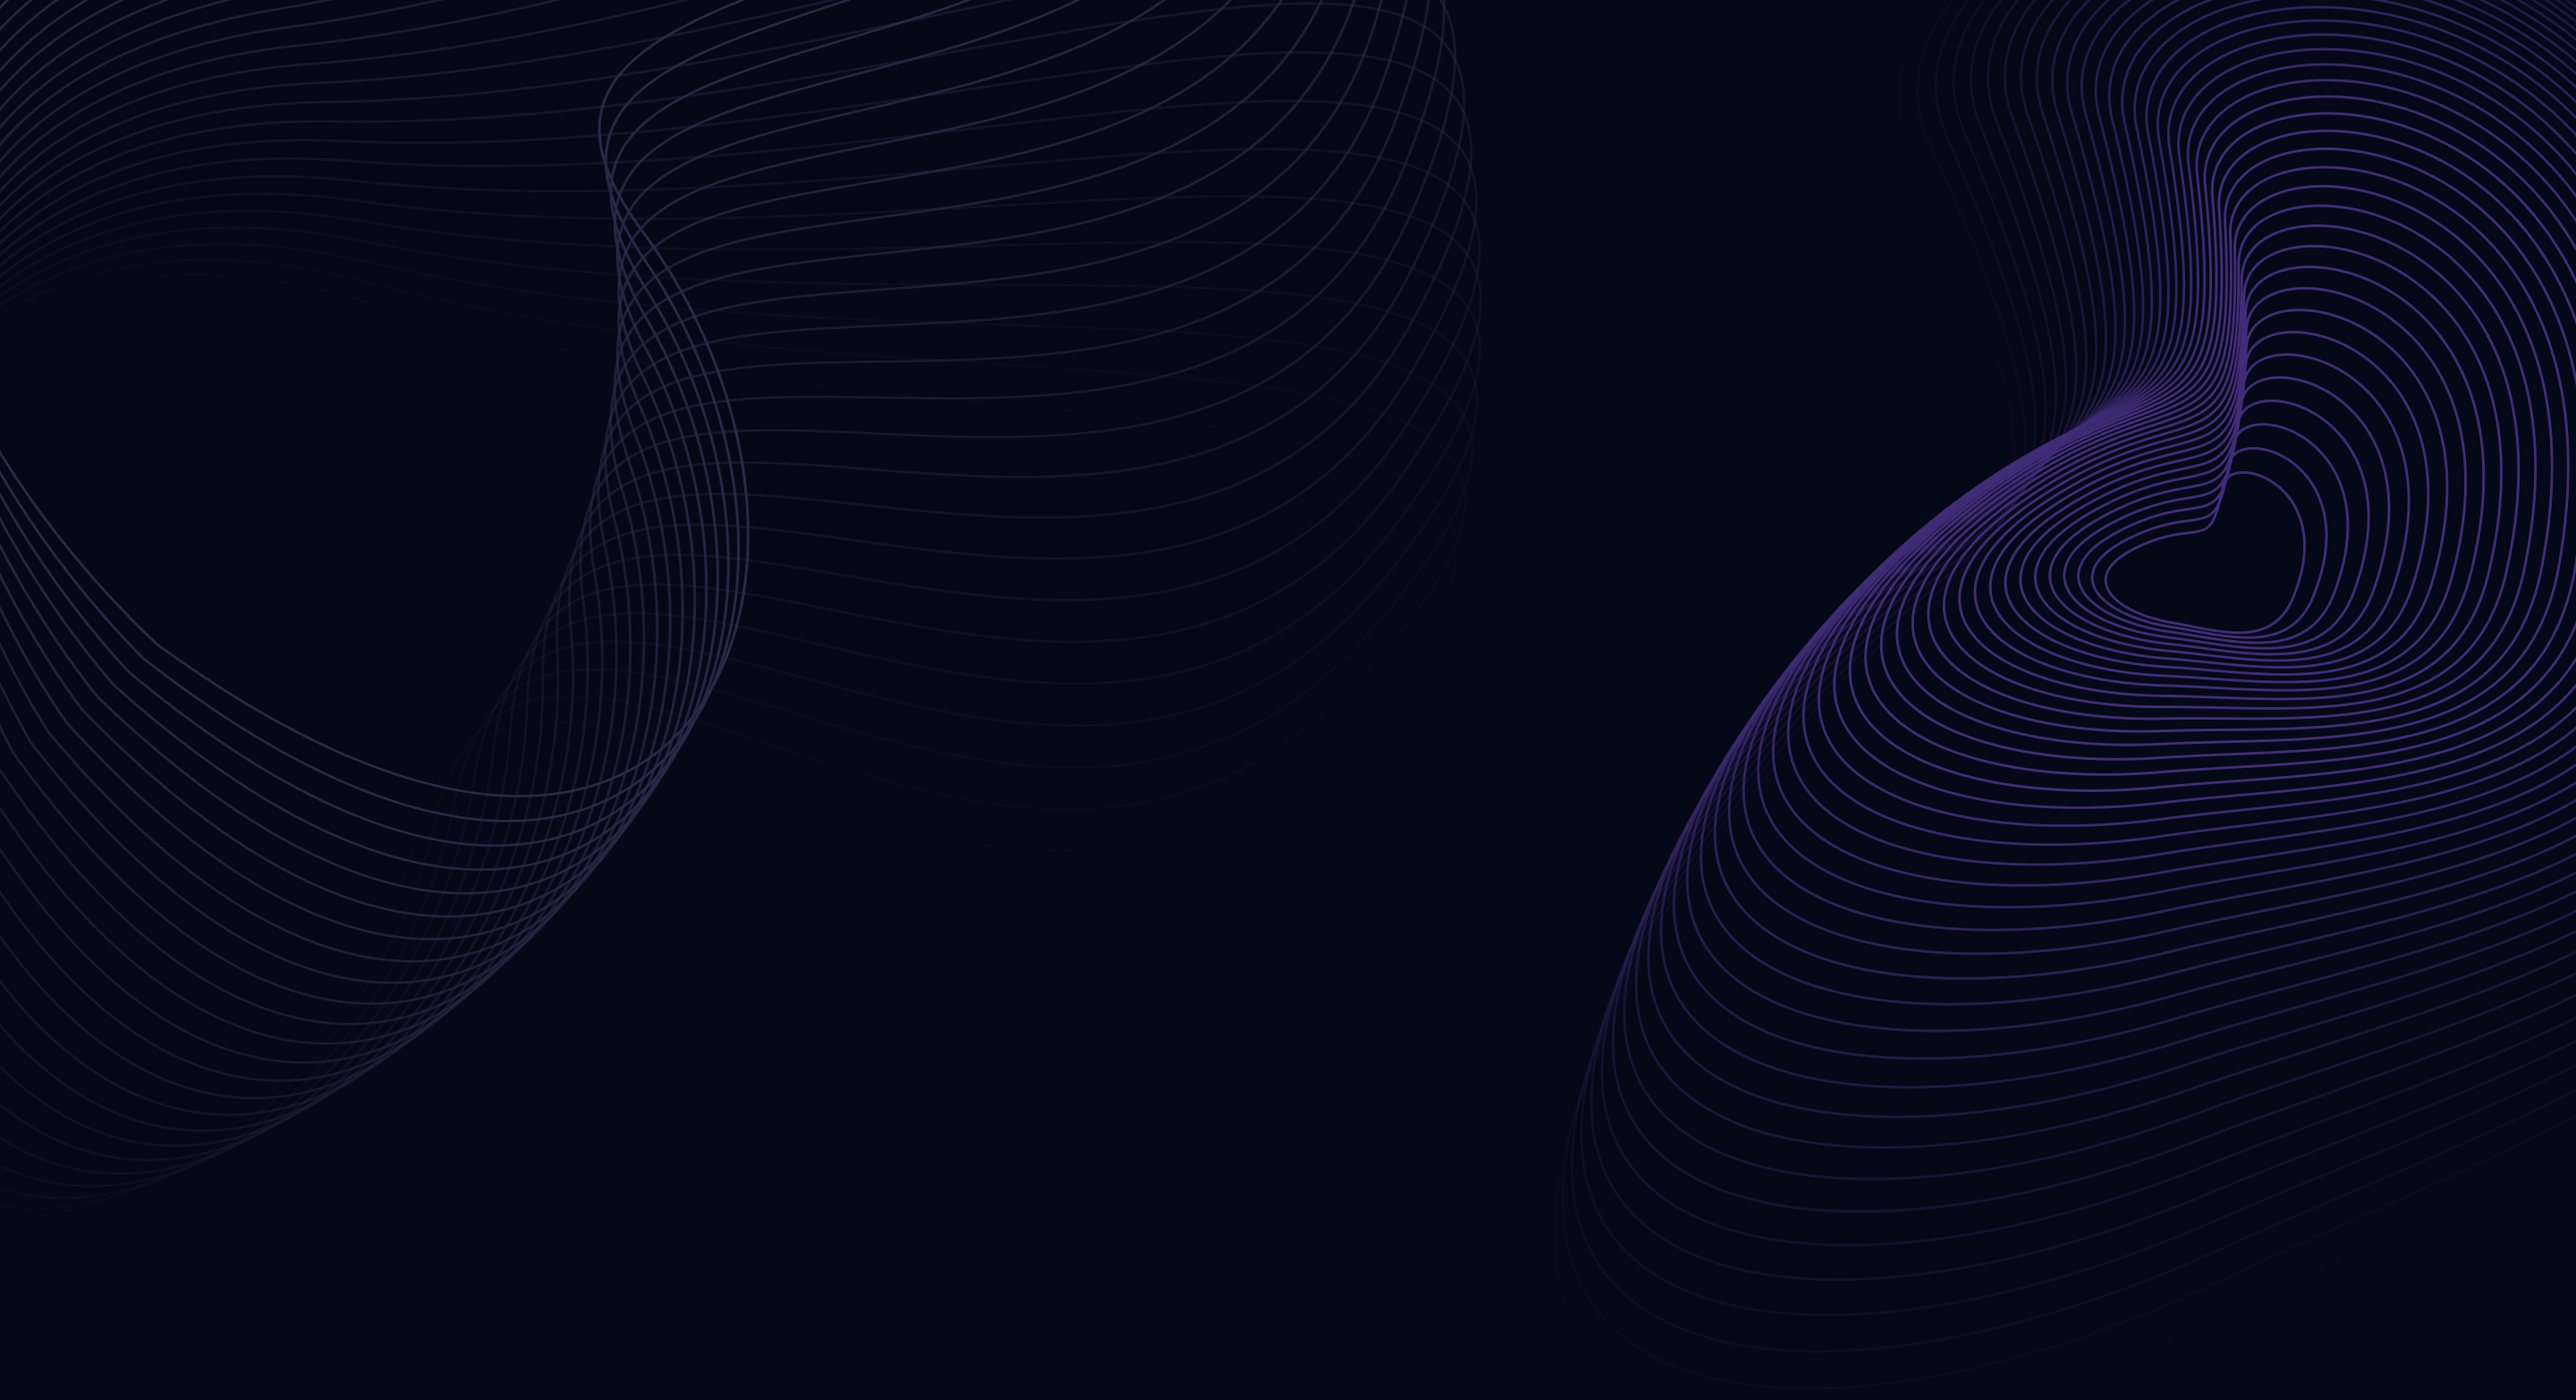
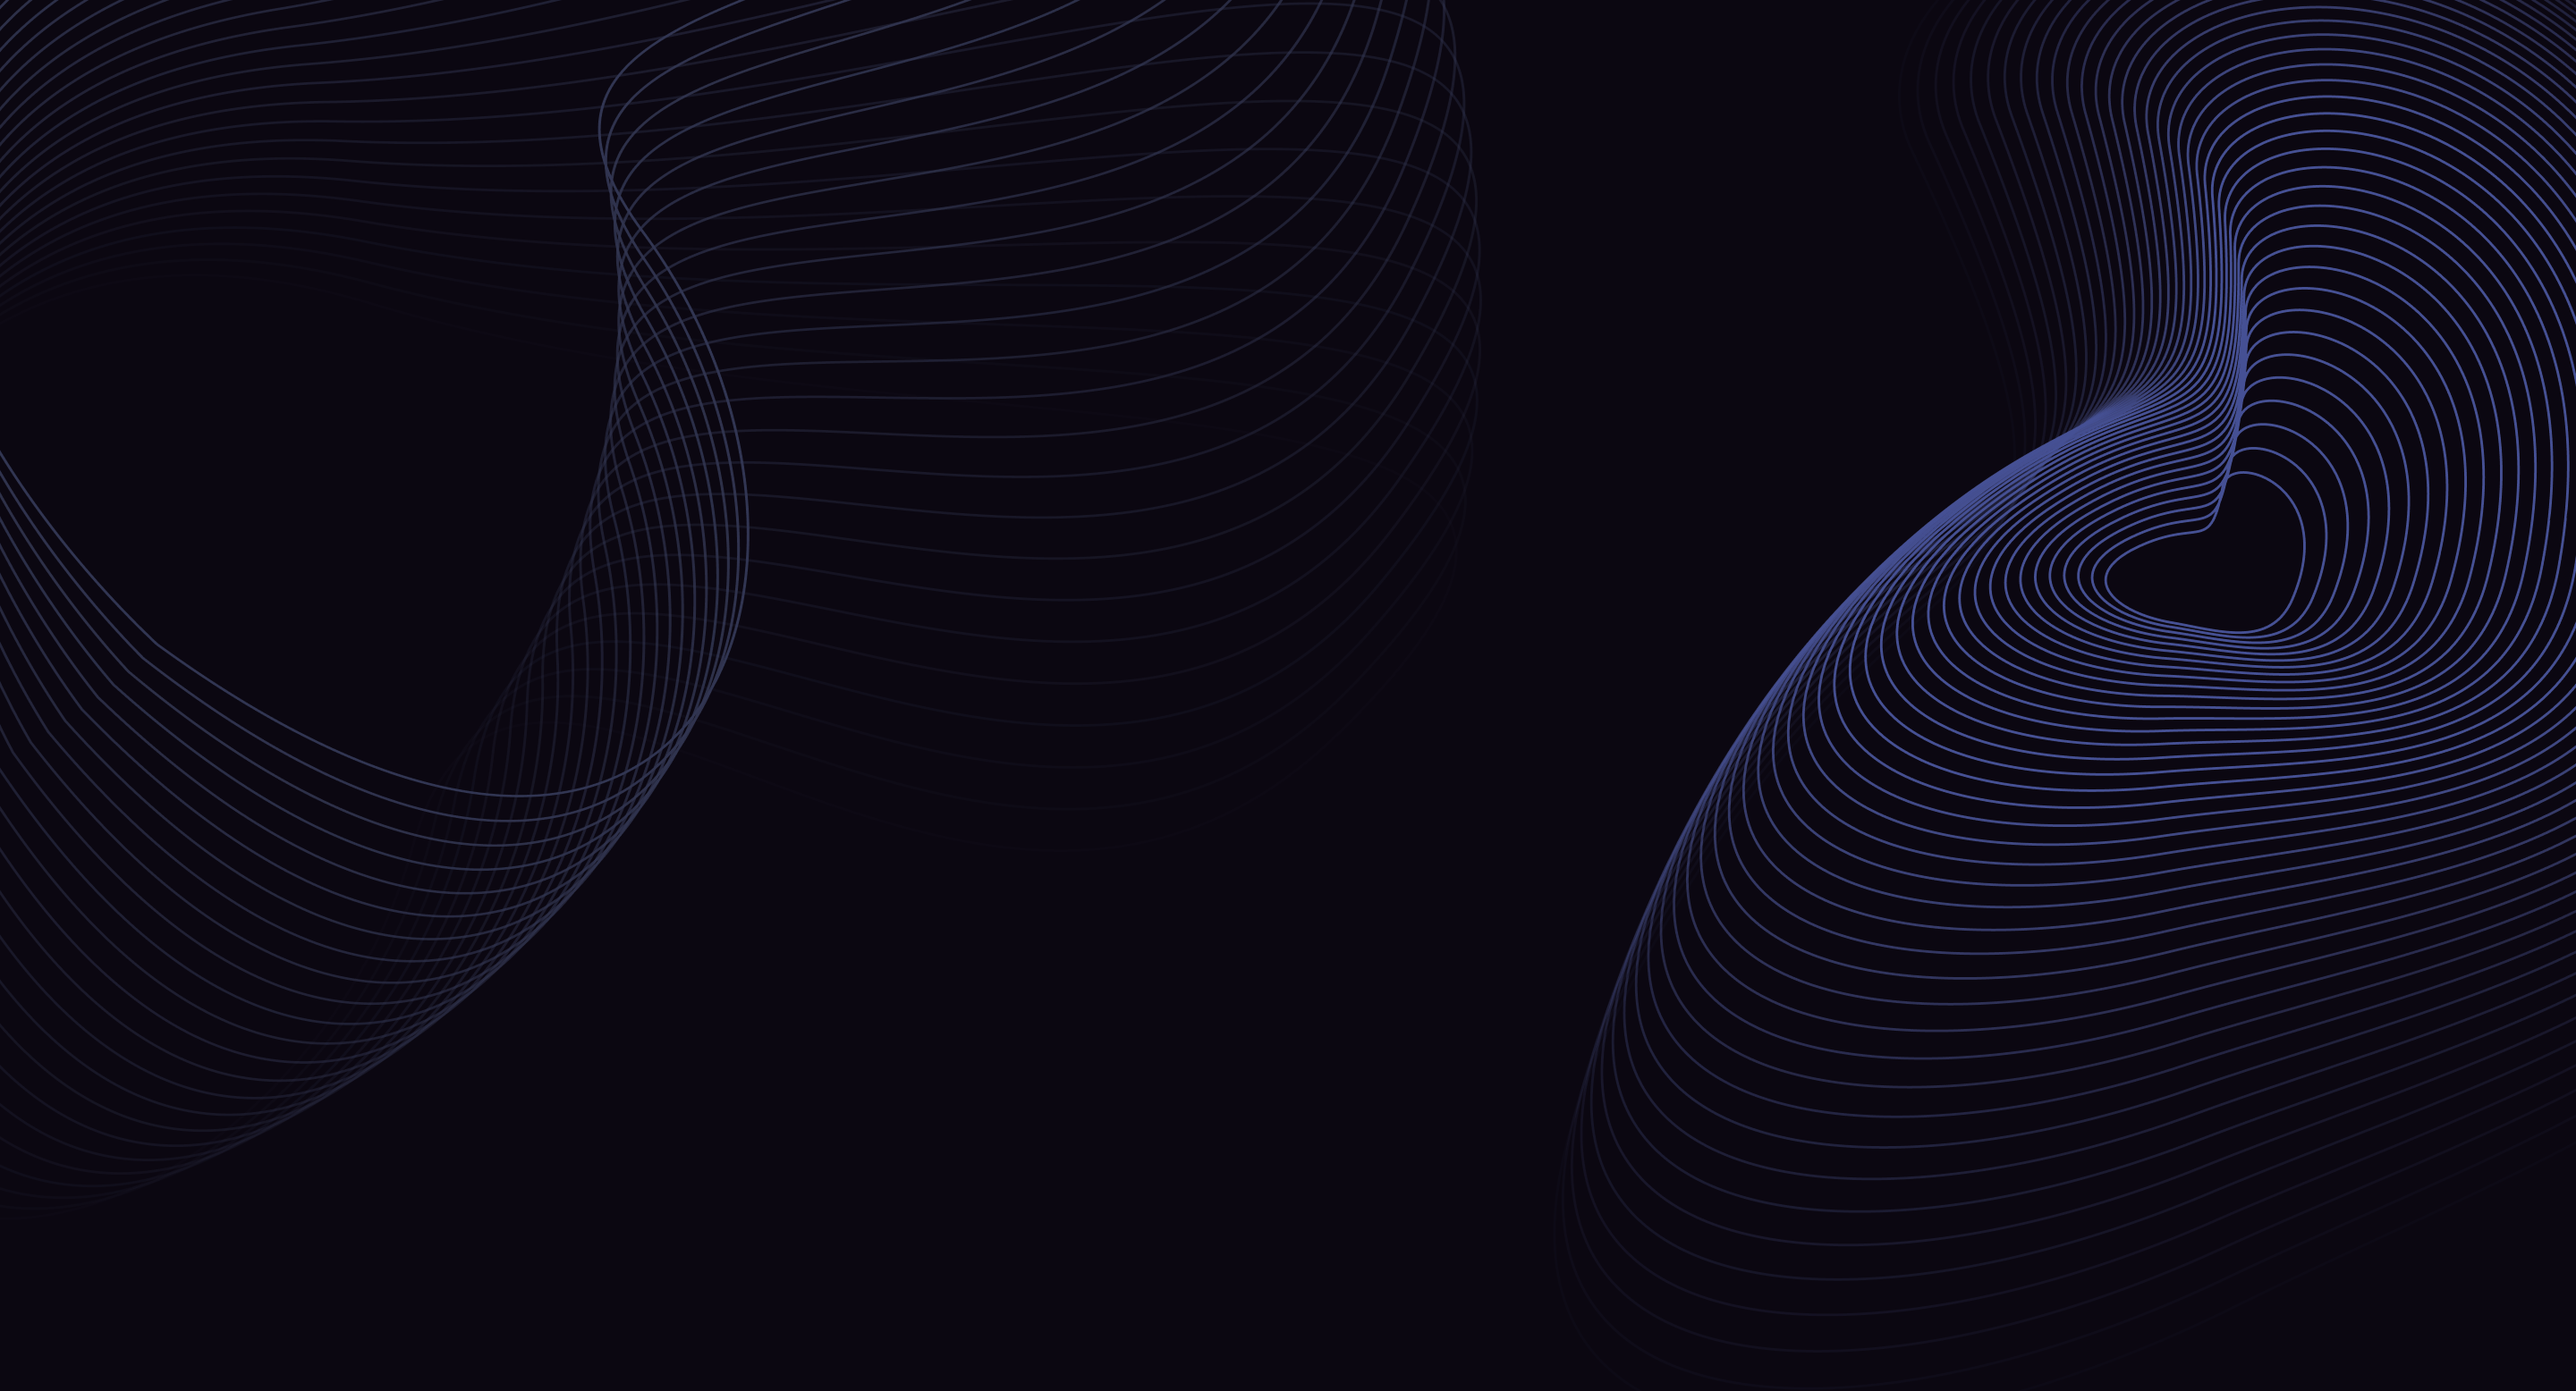
change colors

diff --git a/src/components/Navbar.jsx b/src/components/Navbar.jsx
@@ -43,17 +43,17 @@ const Navbar = () => {
         </li>
       ))}
       <li className="text-white hover:text-white text-[20px] font-medium cursor-pointer">
-        <button onClick={toggleResume} className="bg-[#915EFF] hover:bg-[#7d4ddb] text-white h-9 py-1 px-4 rounded-lg shadow-md transform transition duration-300 hover:scale-105">
+        <button onClick={toggleResume} className="bg-[#3186fa] hover:bg-[#226fd8] text-white h-9 py-1 px-4 rounded-lg shadow-md transform transition duration-300 hover:scale-105">
           Resume
         </button>
       </li>
       <li>
-        <button onClick={openGithub} className="bg-[#915EFF] hover:bg-[#7d4ddb] text-white w-9 h-9 rounded-lg shadow-md transform transition duration-300 hover:scale-105 flex items-center justify-center">
+        <button onClick={openGithub} className="bg-[#3186fa] hover:bg-[#226fd8] text-white w-9 h-9 rounded-lg shadow-md transform transition duration-300 hover:scale-105 flex items-center justify-center">
           <img src={githubLogo} alt="GitHub Logo" />
         </button>
       </li>
       <li>
-        <button onClick={openLinkedin} className="bg-[#915EFF] hover:bg-[#7d4ddb] text-white w-9 h-9 px-1 py-1 rounded-lg shadow-md transform transition duration-300 hover:scale-105 flex items-center justify-center">
+        <button onClick={openLinkedin} className="bg-[#3186fa] hover:bg-[#226fd8] text-white w-9 h-9 px-1 py-1 rounded-lg shadow-md transform transition duration-300 hover:scale-105 flex items-center justify-center">
           <img src={linkedinLogo} alt="Linkedin Logo" />
         </button>
       </li>
@@ -78,14 +78,14 @@ const Navbar = () => {
         </li>
       ))}
       <div className="flex flex-col sm:hidden gap-4 mt-2">
-        <button onClick={toggleResume} className="bg-[#915EFF] hover:bg-[#7d4ddb] text-white py-2 px-4 rounded-lg shadow-md transform transition duration-300 hover:scale-105 text-[16px] font-medium w-full">
+        <button onClick={toggleResume} className="bg-[#3186fa] hover:bg-[#226fd8] text-white py-2 px-4 rounded-lg shadow-md transform transition duration-300 hover:scale-105 text-[16px] font-medium w-full">
           Resume
         </button>
         <div className="flex flex-row gap-4 justify-center">
-          <button onClick={openGithub} className="bg-[#915EFF] hover:bg-[#7d4ddb] text-white w-10 h-10 rounded-lg shadow-md transform transition duration-300 hover:scale-105 flex items-center justify-center">
+          <button onClick={openGithub} className="bg-[#3186fa] hover:bg-[#226fd8] text-white w-10 h-10 rounded-lg shadow-md transform transition duration-300 hover:scale-105 flex items-center justify-center">
             <img src={githubLogo} alt="GitHub Logo" className="w-6 h-6" />
           </button>
-          <button onClick={openLinkedin} className="bg-[#915EFF] hover:bg-[#7d4ddb] text-white w-10 h-10 rounded-lg shadow-md transform transition duration-300 hover:scale-105 flex items-center justify-center">
+          <button onClick={openLinkedin} className="bg-[#3186fa] hover:bg-[#226fd8] text-white w-10 h-10 rounded-lg shadow-md transform transition duration-300 hover:scale-105 flex items-center justify-center">
             <img src={linkedinLogo} alt="Linkedin Logo" className="w-6 h-6" />
           </button>
         </div>

diff --git a/src/components/Footer.jsx b/src/components/Footer.jsx
@@ -28,10 +28,10 @@ const Footer = () => {
               Building innovative solutions through creative coding and passionate development.
             </p>
             <div className="flex gap-4 mt-4">
-              <button onClick={openGithub} className="bg-[#915EFF] hover:bg-[#7d4ddb] w-10 h-10 rounded-lg shadow-md transform transition duration-300 hover:scale-105 flex items-center justify-center">
+              <button onClick={openGithub} className="bg-[#3186fa] hover:bg-[#226fd8] w-10 h-10 rounded-lg shadow-md transform transition duration-300 hover:scale-105 flex items-center justify-center">
                 <img src={githubLogo} alt="GitHub Logo" className="w-6 h-6" />
               </button>
-              <button onClick={openLinkedin} className="bg-[#915EFF] hover:bg-[#7d4ddb] w-10 h-10 rounded-lg shadow-md transform transition duration-300 hover:scale-105 flex items-center justify-center">
+              <button onClick={openLinkedin} className="bg-[#3186fa] hover:bg-[#226fd8] w-10 h-10 rounded-lg shadow-md transform transition duration-300 hover:scale-105 flex items-center justify-center">
                 <img src={linkedinLogo} alt="LinkedIn Logo" className="w-6 h-6" />
               </button>
             </div>
@@ -60,7 +60,7 @@ const Footer = () => {
               <li className="mt-4">
                 <a 
                   href="#contact" 
-                  className="bg-[#915EFF] hover:bg-[#7d4ddb] text-white py-2 px-4 rounded-lg shadow-md transform transition duration-300 hover:scale-105 inline-block"
+                  className="bg-[#3186fa] hover:bg-[#226fd8] text-white py-2 px-4 rounded-lg shadow-md transform transition duration-300 hover:scale-105 inline-block"
                 >
                   Contact Me
                 </a>

diff --git a/src/components/Hero.jsx b/src/components/Hero.jsx
@@ -9,13 +9,13 @@ const Hero = () => {
     <section className="relative w-full h-screen mx-auto">
       <div className={`absolute inset-0 top-[120px] max-w-7xl mx-auto ${styles.paddingX} flex flex-row items-start gap-5`}>
         <div className="flex flex-col justify-center items-center mt-5">
-          <div className="w-5 h-5 rounded-full bg-[#915EFF]" />
+          <div className="w-5 h-5 rounded-full bg-[#3186fa]" />
           <div className="w-1 sm:h-80 h-40 violet-gradient" />
         </div>
 
         <div>
           <h1 className={`${styles.heroHeadText} text-white`}>
-            Hi, I'm <span className="text-[#915EFF]">Kaveesh</span>
+            Hi, I'm <span className="text-[#3186fa]">Kaveesh</span>
           </h1>
           <div className={`${styles.heroSubText} mt-2 text-white-100`}>
             I do{" "}

diff --git a/src/index.css b/src/index.css
@@ -26,15 +26,15 @@
 }
 
 .violet-gradient {
-  background: #804dee;
-  background: linear-gradient(-90deg, #804dee 0%, rgba(60, 51, 80, 0) 100%);
-  background: -webkit-linear-gradient(-90deg, #804dee 0%, rgba(60, 51, 80, 0) 100%);
+  background: #3186fa;
+  background: linear-gradient(-90deg, #3186fa 0%, rgba(60, 51, 80, 0) 100%);
+  background: -webkit-linear-gradient(-90deg, #3186fa 0%, rgba(60, 51, 80, 0) 100%);
 }
 
 .green-pink-gradient {
   background: #00cea8;
-  background: linear-gradient(90.13deg, #00cea8 1.9%, #bf61ff 97.5%);
-  background: -webkit-linear-gradient(90.13deg, #00cea8 1.9%, #bf61ff 97.5%);
+  background: linear-gradient(90.13deg, #3186fa 1.9%, #3186fa 97.5%);
+  background: -webkit-linear-gradient(90.13deg, #00cea8 1.9%, #3186fa 97.5%);
 }
 
 .orange-text-gradient,

diff --git a/src/components/Works.jsx b/src/components/Works.jsx
@@ -54,7 +54,7 @@ const GithubButton = () => {
     <div className="w-full flex justify-center mt-12">
       <button 
         onClick={openGithub} 
-        className="bg-[#915EFF] hover:bg-[#7d4ddb] text-white py-2 px-6 rounded-lg shadow-md transform transition duration-300 hover:scale-105 text-[16px] font-medium flex items-center gap-2 max-w-xs"
+        className="bg-[#3186fa] hover:bg-[#226fd8] text-white py-2 px-6 rounded-lg shadow-md transform transition duration-300 hover:scale-105 text-[16px] font-medium flex items-center gap-2 max-w-xs"
       >
         <img src={github} alt="github" className="w-6 h-6 object-contain invert" />
         More projects on GitHub
